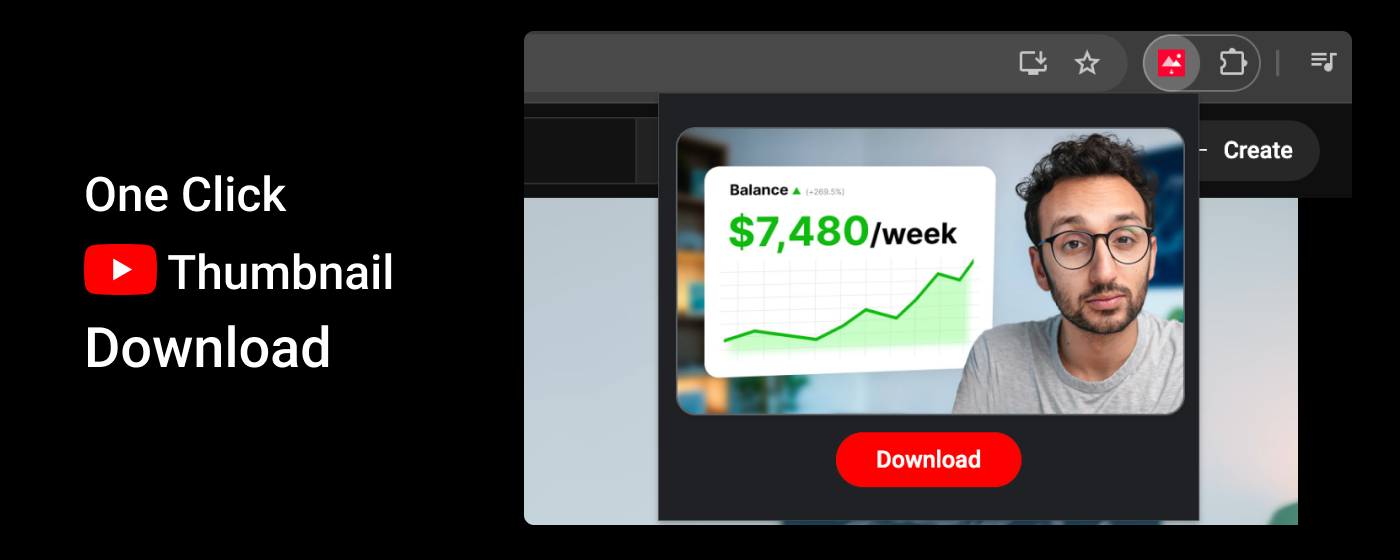
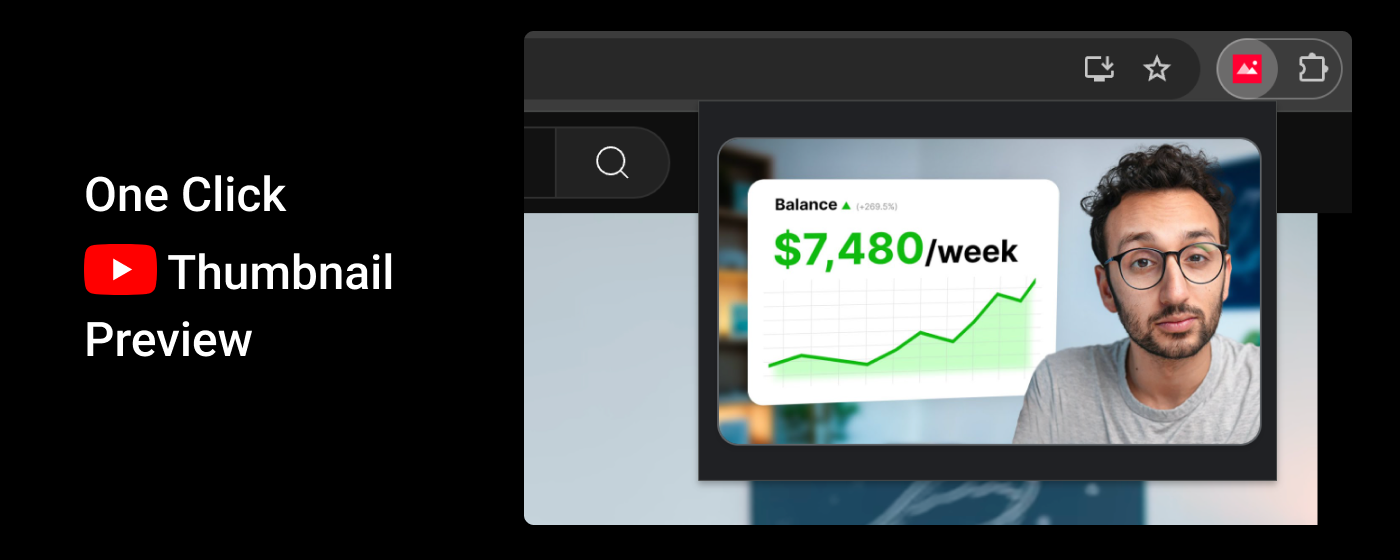
comply with copyright policies

diff --git a/popup.js b/popup.js
@@ -10,18 +10,11 @@ document.addEventListener('DOMContentLoaded', function() {
       const thumbnailUrl = `https://img.youtube.com/vi/${videoId}/maxresdefault.jpg`;
       
       const thumbnailImg = document.getElementById('thumbnail');
-      const downloadLink = document.getElementById('download-link');
       const errorMessage = document.getElementById('error-message');
-
-      // Get the video title from the tab
-      const videoTitle = currentTab.title.replace(' - YouTube', '').trim();
-      // Clean the title to make it filesystem-friendly
-      const cleanTitle = videoTitle.replace(/[\\/:*?"<>|]/g, '-');
       
       // Load the thumbnail
       thumbnailImg.onload = function() {
         thumbnailImg.style.display = 'block';
-        downloadLink.style.display = 'inline-block';
         errorMessage.style.display = 'none';
       };
       
@@ -31,15 +24,6 @@ document.addEventListener('DOMContentLoaded', function() {
       };
       
       thumbnailImg.src = thumbnailUrl;
-      
-      // Set up download link
-      downloadLink.addEventListener('click', function() {
-        chrome.downloads.download({
-          url: thumbnailImg.src,
-          filename: `thumbnail-${cleanTitle}.jpg`,
-          saveAs: true
-        });
-      });
     } else {
       // Show error message if not on a YouTube video page
       document.getElementById('error-message').style.display = 'block';

diff --git a/popup.html b/popup.html
@@ -81,7 +81,6 @@
 <body>
   <div id="thumbnail-container">
     <img id="thumbnail" style="display: none;">
-    <a id="download-link" class="button" style="display: none;">Download</a>
   </div>
   <div id="error-message">Please navigate to a YouTube video page</div>
   <script src="popup.js"></script>

diff --git a/README.md b/README.md
@@ -2,7 +2,9 @@
 
 A Chrome extension that allows you to preview and download thumbnails from YouTube videos.
 
-![Demo](./marketing/small.png)
+![Demo](./marketing/marquee.png)
+
+Get the extension
 
 ## Features
 
@@ -28,6 +30,10 @@ A Chrome extension that allows you to preview and download thumbnails from YouTu
 ## Note
 
 This extension requires you to be on a YouTube video page to function. If you're not on a YouTube video page, you'll see an error message.
+
+I built this extension for educational purposes only, the codebase is intentionally simple and readable.
+
+The YouTube thumbnails are subject to copyright, please use responsibly.
 
 ## License
 
